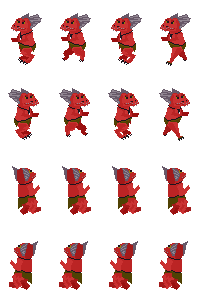
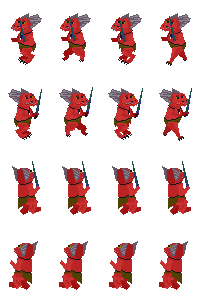
Added Kobald Archer

diff --git a/js/world/world.js b/js/world/world.js
@@ -20,11 +20,11 @@ var roomGrid = [];
 
 var levelOne = [						
 					 51, 52, 51, 53, 52, 52, 54, 50, 52, 52, 50, 52, 52, 53, 52, 52, 54, 50, 52, 52,
-					 52,100,  1, 10, 10, 10, 13, 10, 16,  1,  1, 19,  1,  1,  1, 17, 13, 10, 10, 10,
+					 52,110,  1, 10, 10, 10, 13, 10, 16,  1,  1, 19,  1,  1,  1, 17, 13, 10, 10, 10,
 					 51,  1,  1,  1,  1,  1,  1,  1,  1,  1,  1, 19,  1,  1,  1,  1,  1,  1,  1,  1,
-					 53,  1,  1,  2,  2,  1,  1,  1,  1,  1,  1, 19,  1,153,  1,  1,  1,  1,  1,  1,
+					 53,  1,  1,  2,  2,  1,111,  1,  1,  1,  1, 19,  1,153,  1,  1,  1,  1,  1,  1,
 					 51,  1,  1,  1,  1,  1,  2,  1,  4,  1,  1, 19,  1,  1,  1,  1,  1,  1,  1,  1,
-					 54, 14,  3,  3,  2,  1,111,  3,  1,  1,  1, 19,  1,  1,  1,  1,  1,  1,  1,  1,
+					 54, 14,  3,  3,  2,  1,112,  3,  1,  1,  1, 19,  1,  1,  1,  1,  1,  1,  1,  1,
 					 50, 12,  1,  4,  2,  1,  2,  1,  1,  1,154, 19,  1,152,  1,  1,  1,  1,  1,  1,
 					 50, 12,  1,  3,  1,  1,  2,  1,  1,  1,  1, 19,  1,  1,  1,  1,  1,  1,  1,  1,
 					 51, 15,  1,  1,  1, 1,   1,  1,  3,  2,  1, 19,  1,  1,  1,  1,  1,  1,  1,  1,
@@ -34,10 +34,10 @@ var levelOne = [
 					 50,  1,  1,  1,  1,  1,  1,  1,  1,  1,  1, 19,  3,  1,  3,  1,  1,  1,  1,  1,
 					 52, 18,  1,  1,  1,  1,  1,  3,  1,  1,  1, 19,  4,  1,  1,  1,  1,  1,  1,  1,
 					 54, 14,  1,  1,  1,  1,155,  1,  3,  1,  1, 19,  1,  1,  1,  1,  4,  1,  1,  1,
-					 52, 12,110,  1,  1,  1,  1,  3,  1,  1,  1, 19, 19, 19, 19, 19, 19, 19, 19, 19,
+					 52, 12,  1,  1,  1,  1,  1,  3,  1,  1,  1, 19, 19, 19, 19, 19, 19, 19, 19, 19,
 					 52, 12,  1,  1,  1,  1,  1,  1,  1,  1,  1, 19,  1,  1,  1,  1,  1,  1,  1,  1,
 					 52, 12,  1,  1,  1,  1,  1,  1,  1,  1,  1, 19,  1,  1,  1,  1,  1,  1,  1,  1,
-					 52, 12,  1,  1,  1,  1,  1,  1,  1,110,  1, 19,  1,  1,  1,  1,  1,  1,  1,  1,
+					 52, 12,  1,  1,  1,  1,  1,  1,  1,100,  1, 19,  1,  1,  1,  1,  1,  1,  1,  1,
 					 52, 12,  1,  1,  1,  1,  1,  1,  1,  1,  1, 19,  1,  1,  1,  1,  1,  1,  1,  1,
 				];
 					
@@ -79,7 +79,8 @@ var levelTwo =[
 	//Player and Enemies 100 through 149
 	const TILE_PLAYER = 100;
 	const TILE_KOBALD = 110;
-	const TILE_KOA_TOA = 111;
+	const TILE_KOBALD_ARCHER = 111;
+	const TILE_KOA_TOA = 112;
 	//Pick up items 150 through 199
 	const TILE_POTION_MANA = 150;
 	const TILE_POTION_HEALTH = 151;

diff --git a/js/utilities/ImageLoading.js b/js/utilities/ImageLoading.js
@@ -22,6 +22,7 @@ var spellBookPic = document.createElement("img");
 var spellBook2Pic = document.createElement("img");
 var spellBookIconPic = document.createElement("img");
 var kobaldPic = document.createElement("img");
+var kobaldArcherPic = document.createElement("img");
 var koaToaPic = document.createElement("img");
 var fireBoltPic = document.createElement("img");
 
@@ -84,6 +85,7 @@ function loadImages() {
 			//characters
 			{varName: wizardPic, theFile: "wizard.png"},
 			{varName: kobaldPic, theFile:  "kobald.png"},
+			{varName: kobaldArcherPic, theFile:  "kobaldArcher.png"},
 			{varName: koaToaPic, theFile:  "kuo Toa.png"},
 			//tiles (Will eventually move to one sprite sheet)
 			{trackType: TILE_FLOOR_STONE_1, theFile: "floor.png", sx: 0, sy: 0},

diff --git a/js/enemy/enemy.js b/js/enemy/enemy.js
@@ -22,6 +22,9 @@ function enemyClass() {
         } else if (whichTile == TILE_KOA_TOA){
             whichGraphic = koaToaPic;
             this.maxMovement = 6;
+        } else if (whichTile == TILE_KOBALD_ARCHER){
+            whichGraphic = kobaldArcherPic;
+            this.maxMovement = 8;
         }
 		this.superInit(whichGraphic,'enemy', whichTile);
         console.log(whichTile)

diff --git a/js/main.js b/js/main.js
@@ -100,8 +100,10 @@ function loadLevel(whichLevel) {
 			}
 			addPotion(whichPotion, "Kobald");
 		}
-		if(roomGrid[i] == TILE_KOBALD || roomGrid[i] == TILE_KOA_TOA){
-			addEnemy(roomGrid[i]);
+		if( roomGrid[i] == TILE_KOBALD || 
+			roomGrid[i] == TILE_KOBALD_ARCHER ||
+			roomGrid[i] == TILE_KOA_TOA){
+			    addEnemy(roomGrid[i]);
 		}
 	}
 
